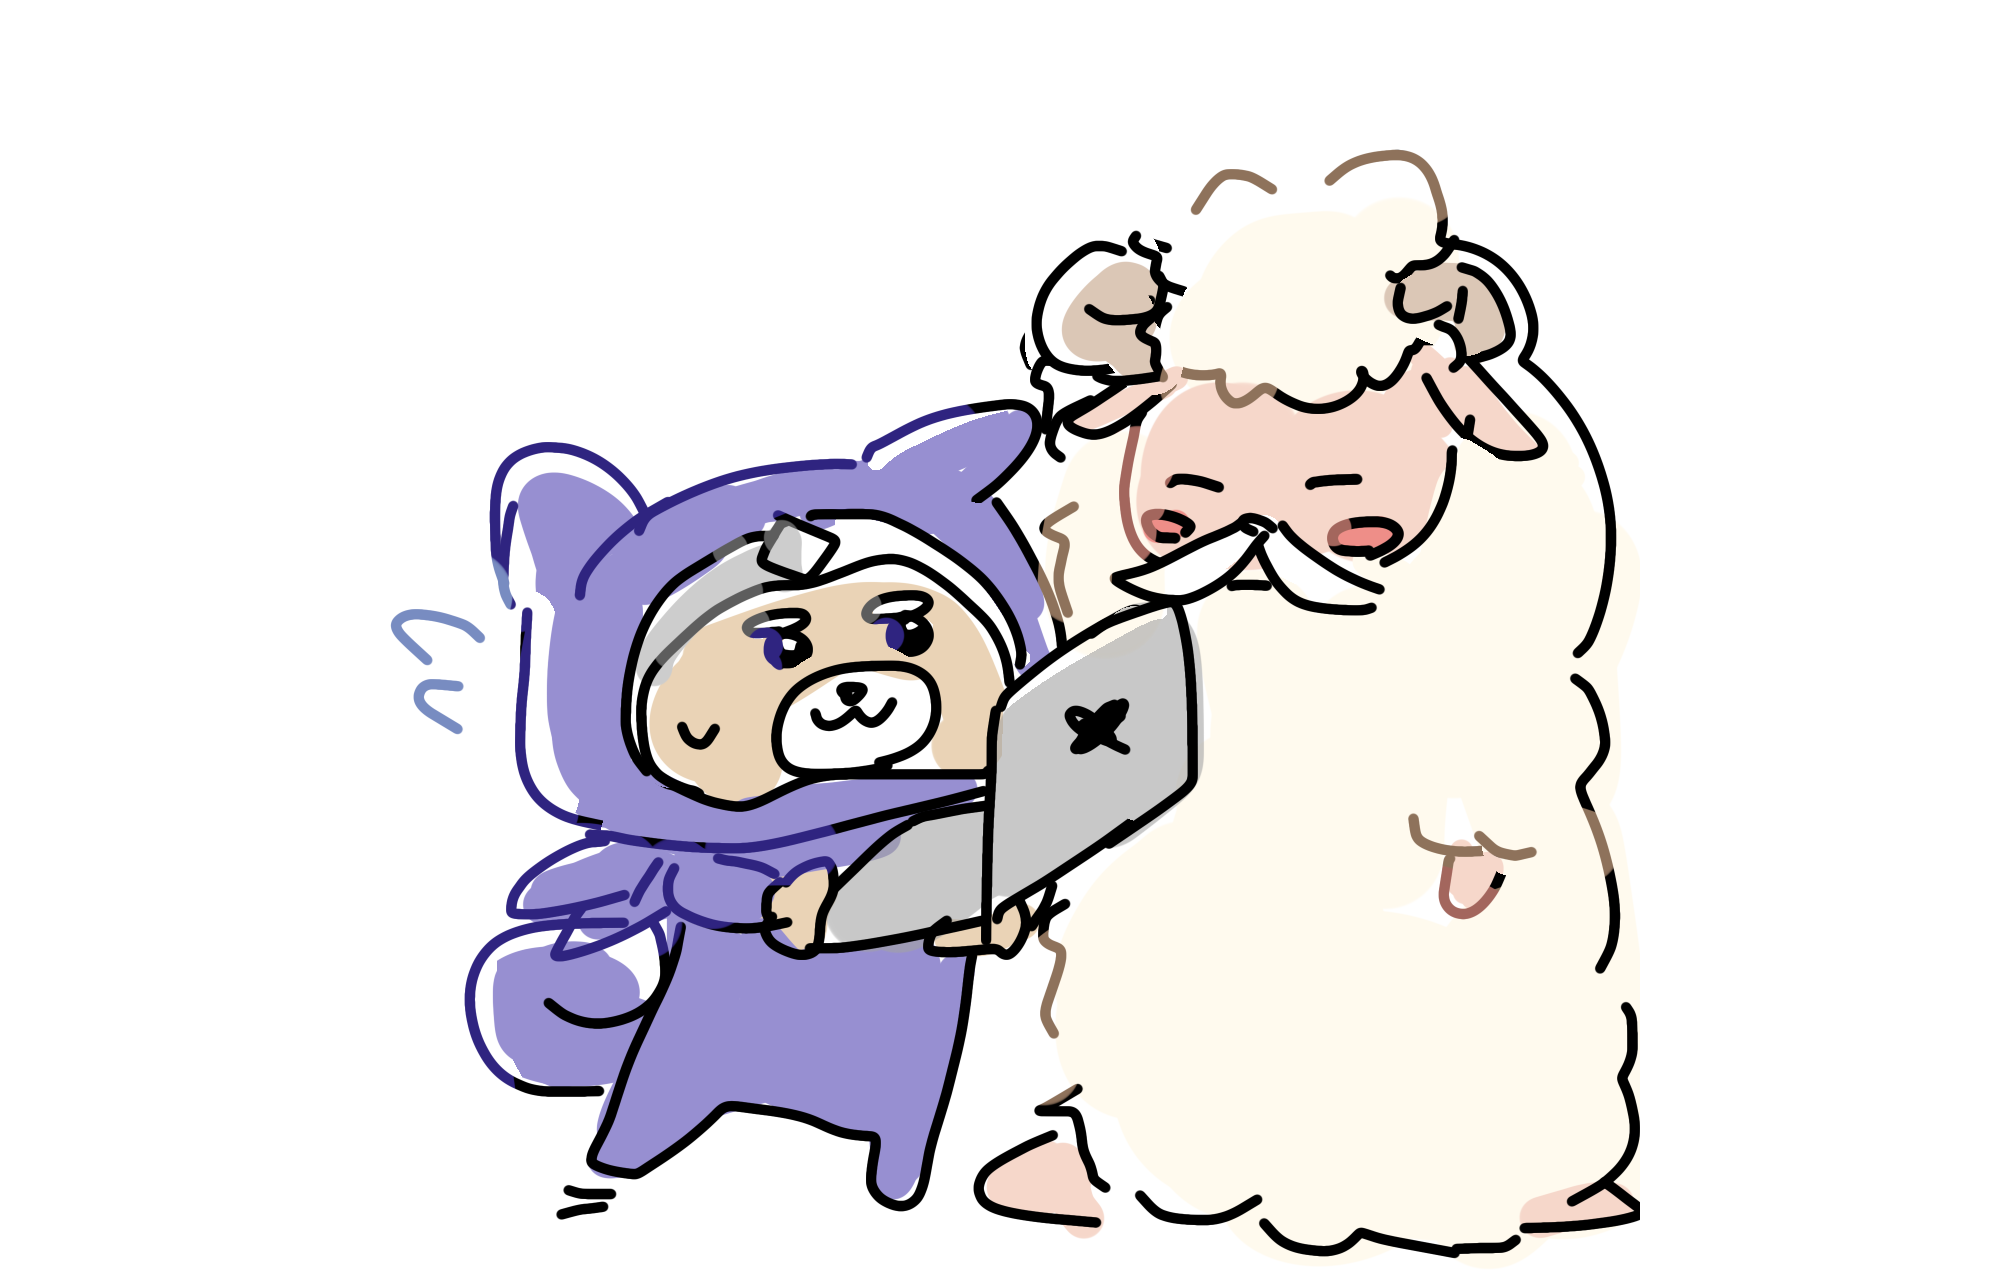
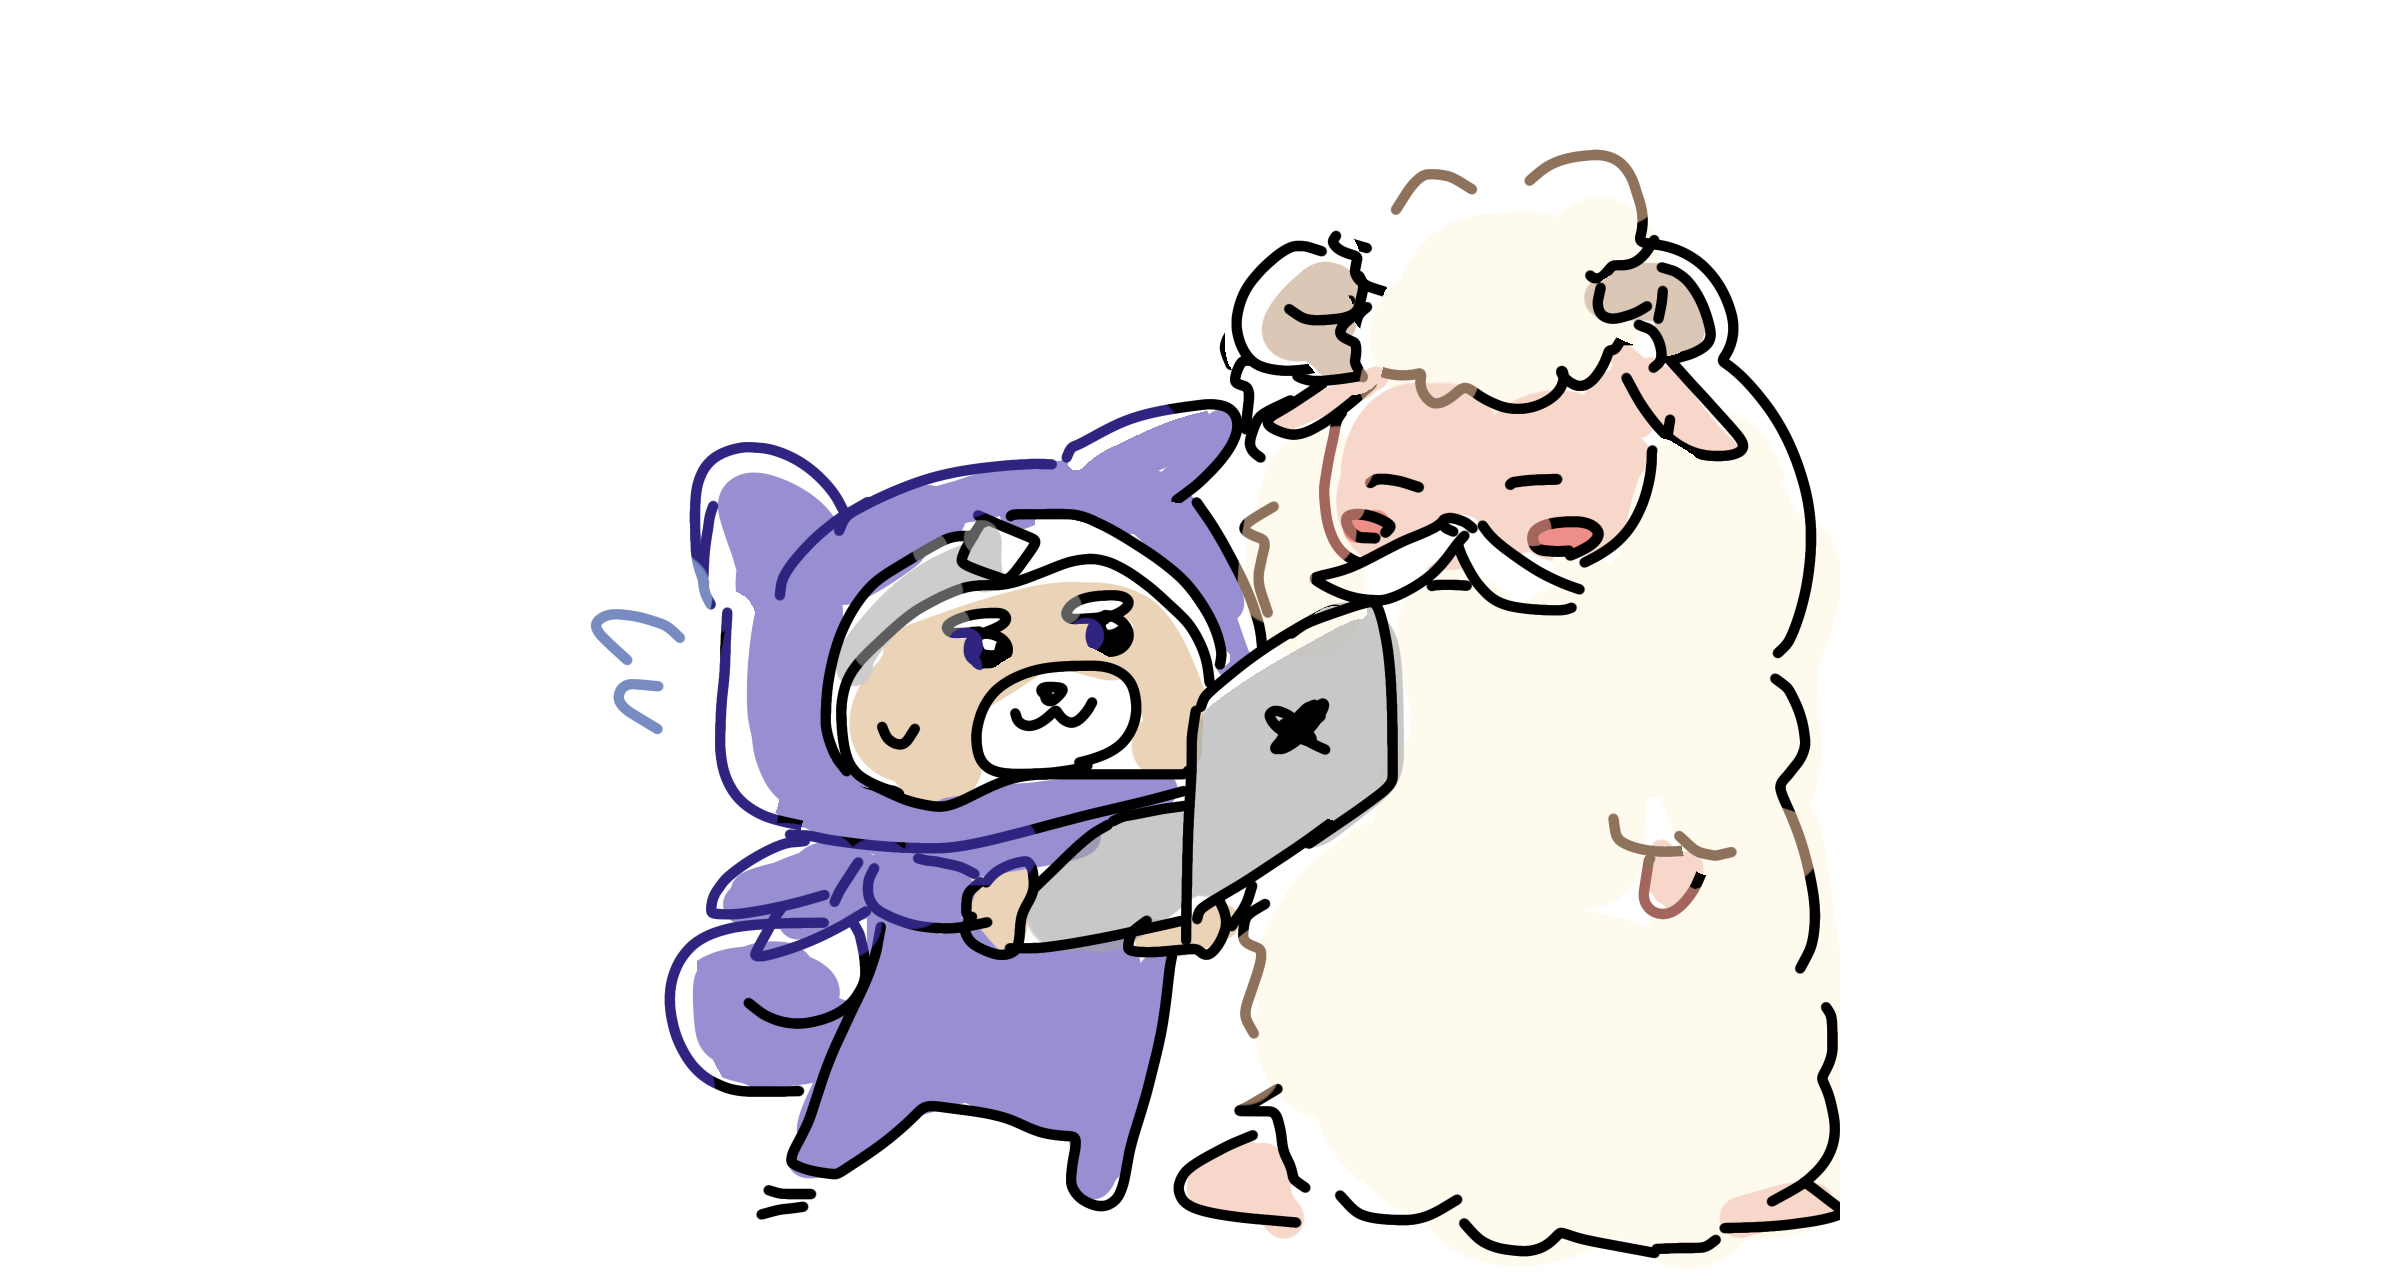
にんじゃわんこがスライドに剣山

Changed region(s): [[0.186, 0.0938, 0.837, 1.0], [0.806, 0.6875, 0.837, 0.7188]]

diff --git a/app/components/slide.tsx b/app/components/slide.tsx
@@ -244,10 +244,11 @@ function CreateSlide({
     },
     image: {
       position: "absolute",
-      top: "0",
-      left: "0",
-      width: "100%",
-      height: "100%",
+      top: "35%",
+      left: "50%",
+      transform: "translate(-50%, -50%)",
+      width: "70%",
+      height: "80%",
       borderRadius: "4px",
       objectFit: "cover",
     },

diff --git a/app/resources/problems/0.ts b/app/resources/problems/0.ts
@@ -11,6 +11,7 @@ export default {
       title: "console.log とは",
       description:
         "console.log は、JavaScriptでコンソールにメッセージを出力するための関数やね～。デバッグや確認に便利！",
+      imgSrc: "/ninja-1.png",
     },
     {
       title: "Hello world を出力しよう",

diff --git a/app/resources/problems/lesson0.ts b/app/resources/problems/lesson0.ts
@@ -11,6 +11,7 @@ export default {
       title: "console.log とは",
       description:
         "console.log は、JavaScriptでコンソールにメッセージを出力するための関数やね～。デバッグや確認に便利！",
+      imgSrc: "/ninja-1.png",
     },
     {
       title: "Hello world を出力しよう",
